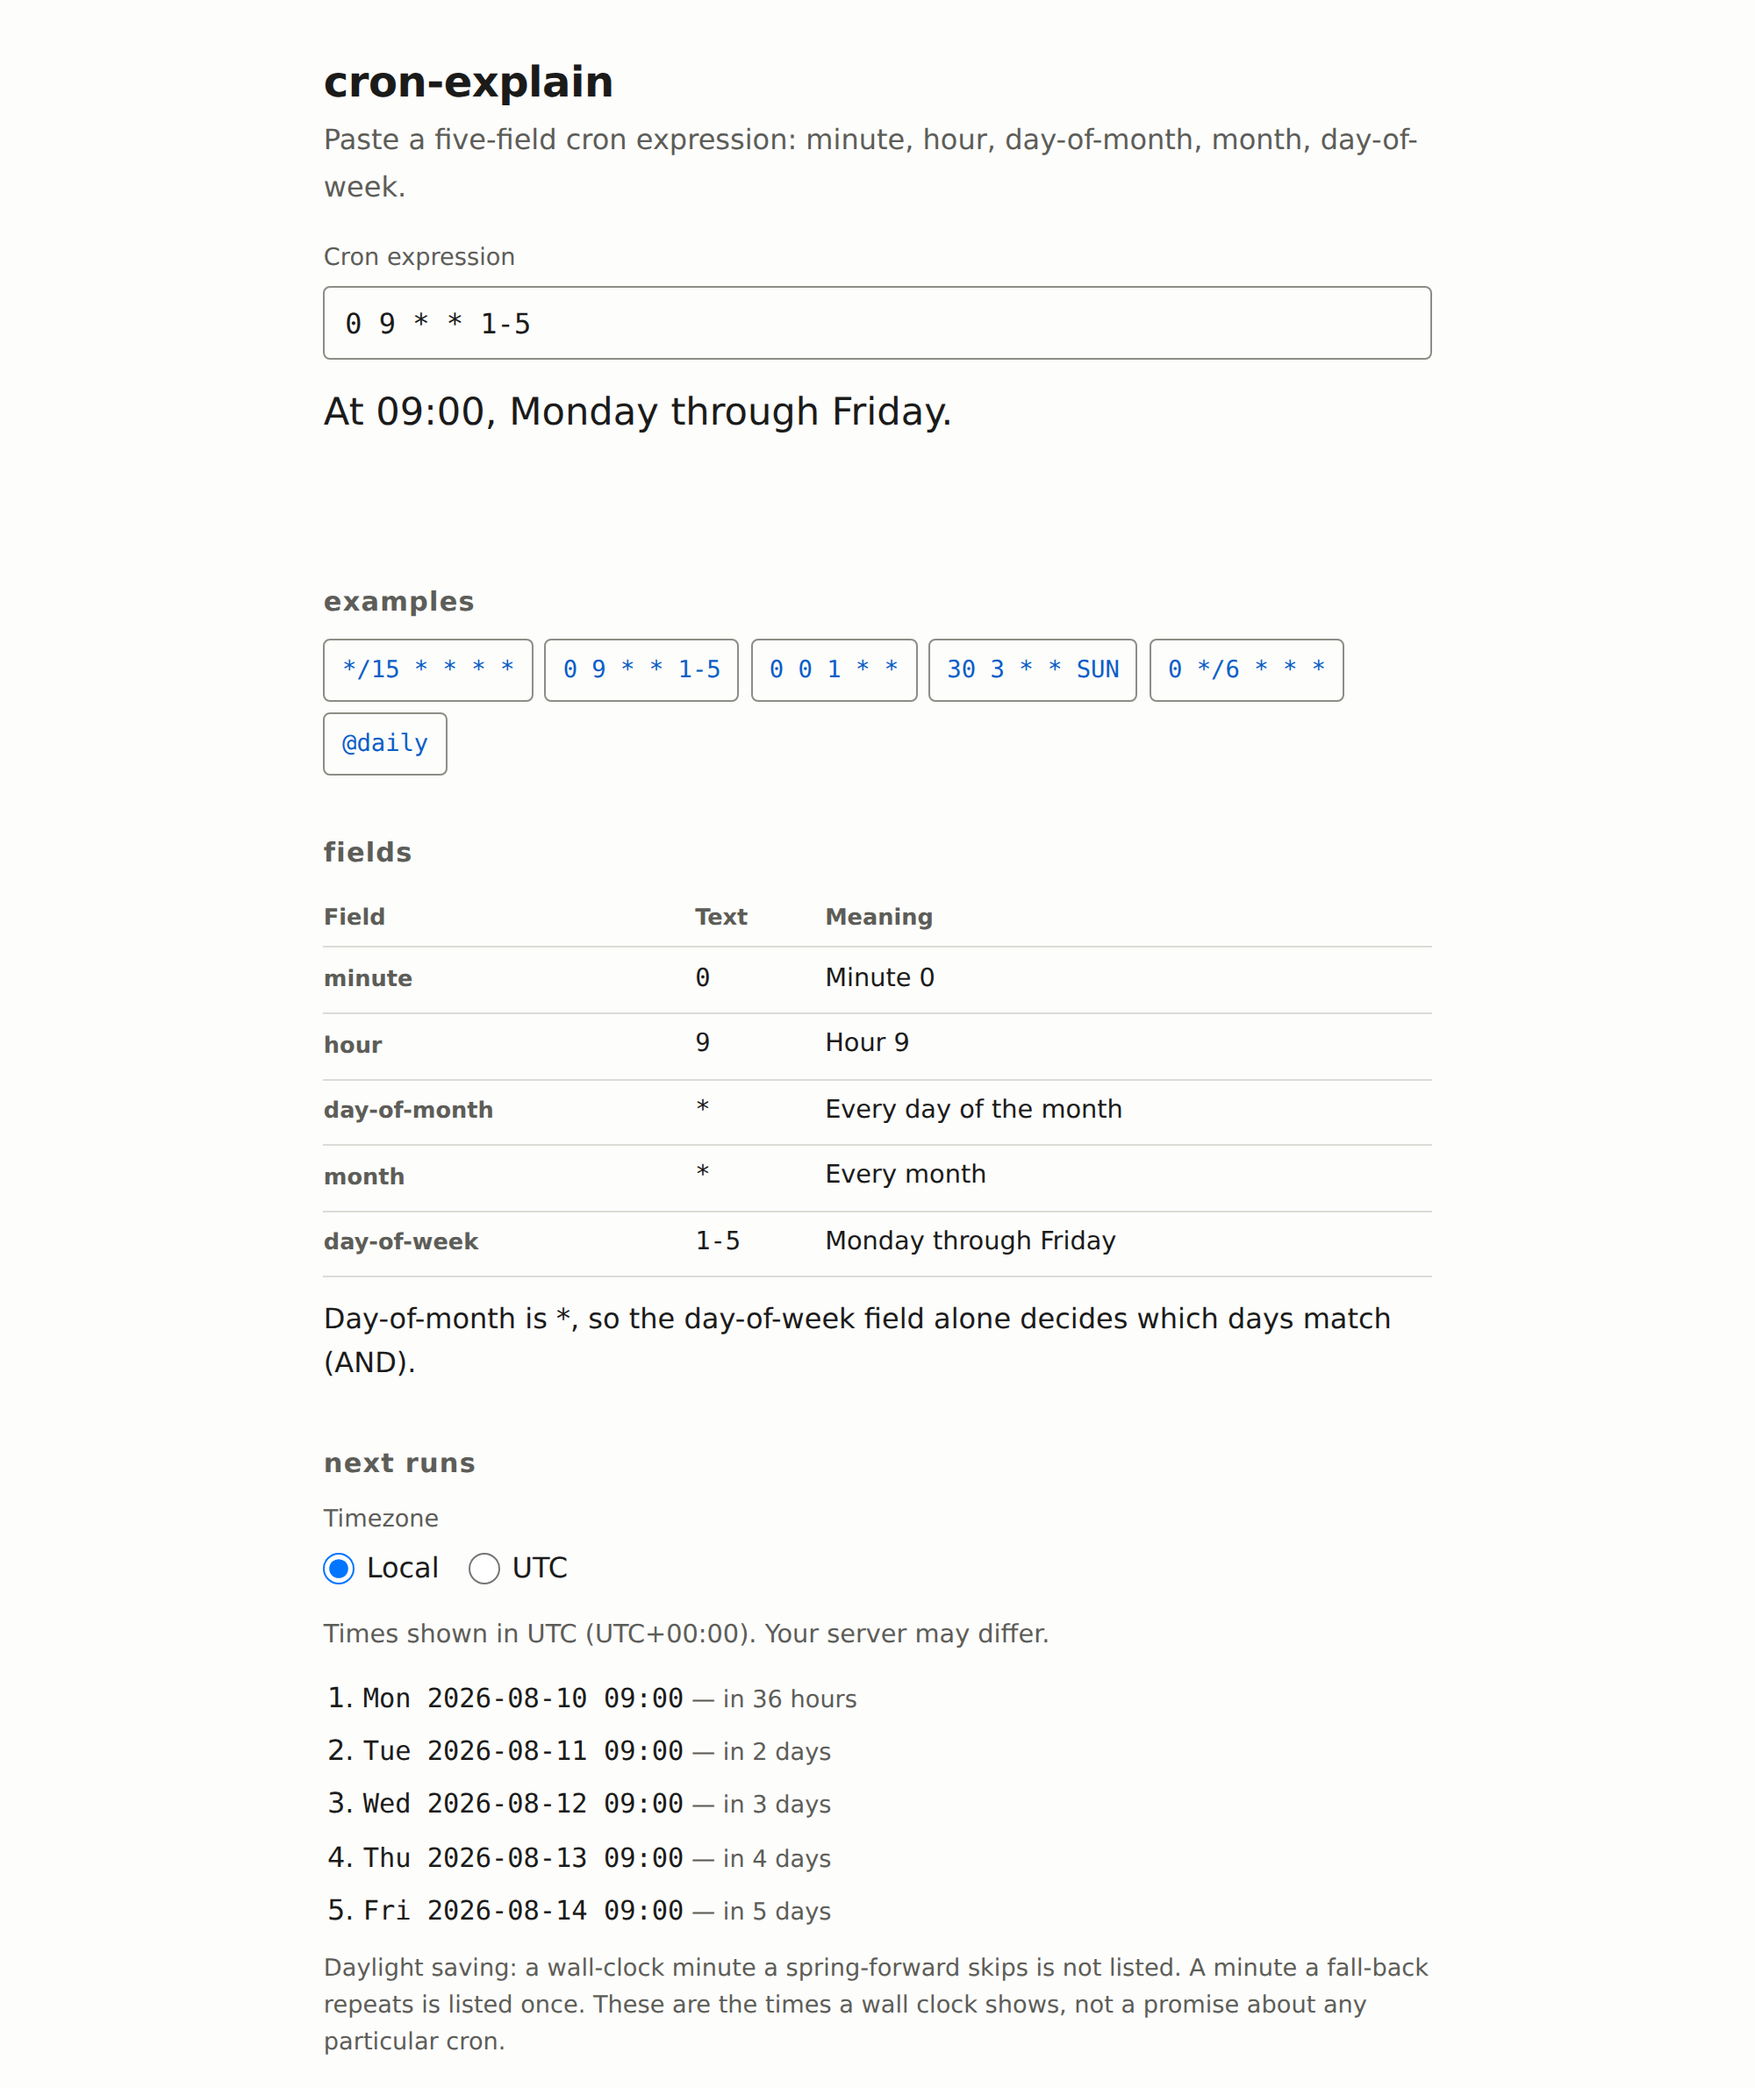
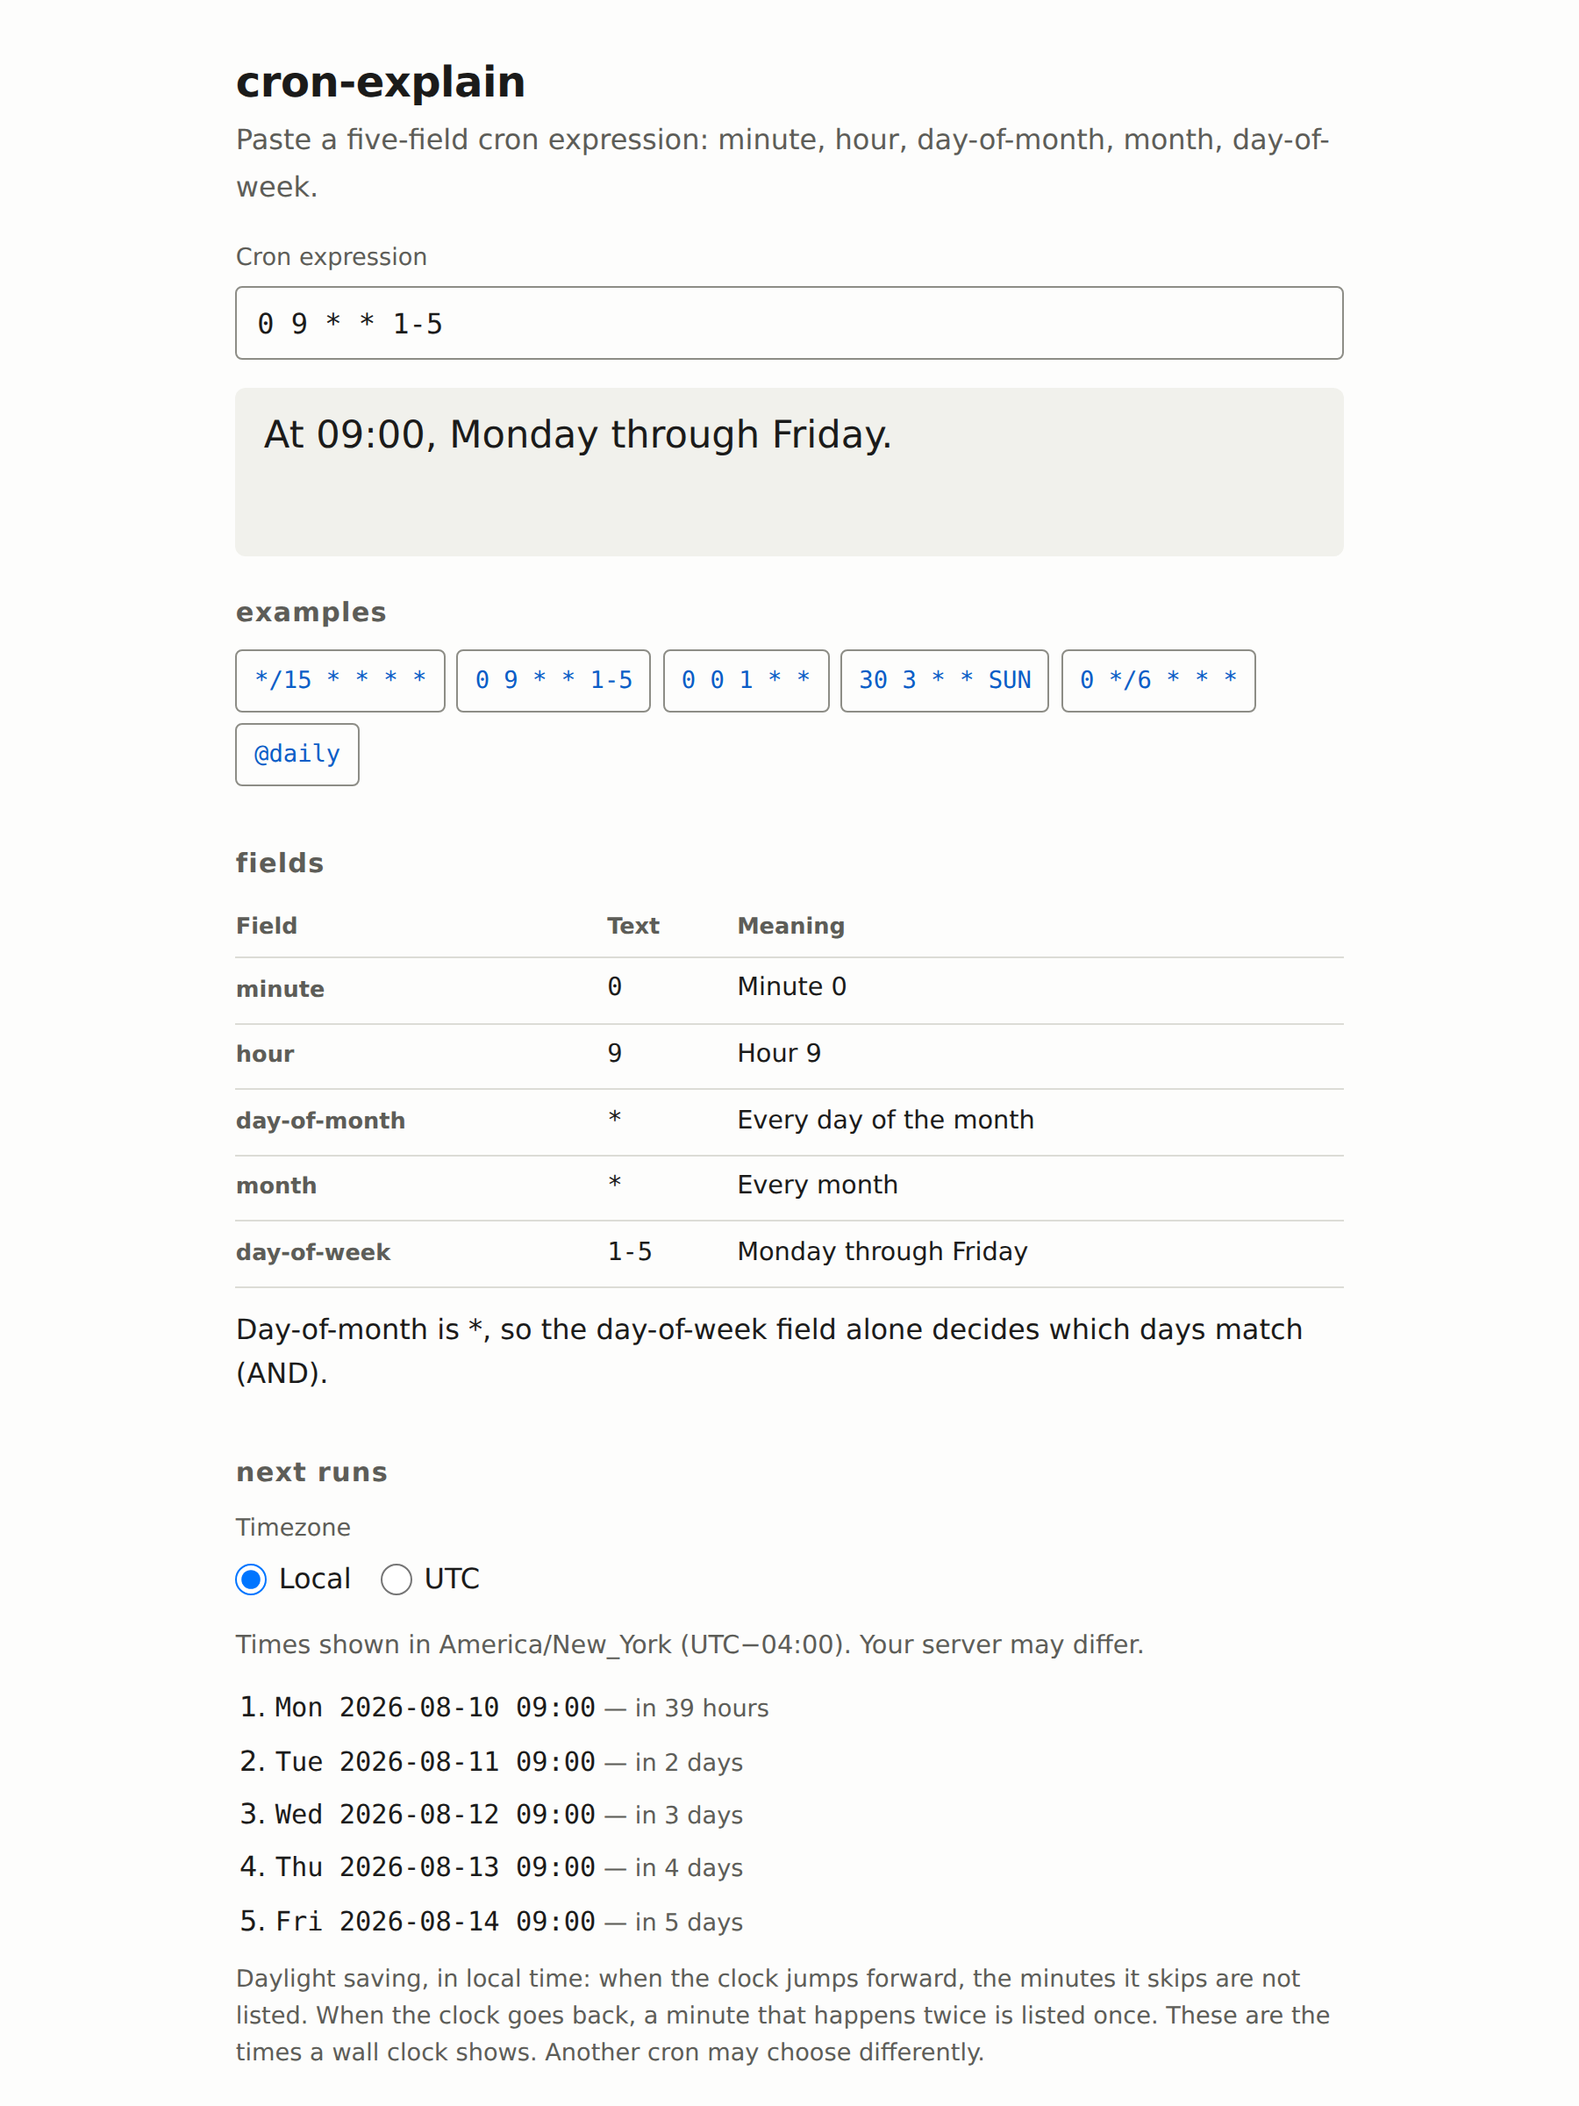
docs: loosen the What it does block, re-capture the screenshot
"What it does" was one 127-word paragraph of 27-word sentences carrying three
em-dash asides, two semicolons and nine inline-code runs. Same claims, split
into two paragraphs with no asides and no semicolons.

screenshot.png is re-captured from the shipped build at a 900x1200 viewport,
light scheme, showing the state its alt text describes: the default
expression, the sentence in its block, the six examples, the five-row table
with the day-rule note, and the five run times under the Local/UTC control.

Also corrects a tests.html comment that pointed at a README section that does
not exist.

diff --git a/tests.html b/tests.html
@@ -728,8 +728,10 @@
     CE.describe(parseSafe('0,30 9-17 15 2 FRI')),
     'In February, at minutes 0 and 30 of hours 9 through 17, on day 15 of the month or on Friday.');
 
-  // Assertions that exist to kill named mutants (see README): ordinal's "st"
-  // branch, compactList's run threshold, and relativeHint's 48-hour boundary.
+  // Three assertions that exist because a mutation run found nothing pinning
+  // the behaviour: ordinal's "st" branch, compactList's run threshold (two
+  // consecutive values are a pair, three are a run), and relativeHint's
+  // 48-hour boundary. Each fails if its line is changed.
   eq('an ordinal ending in 1 is "21st", not "21th"',
     CE.describe(parseSafe('0 0 */21 * *')), 'At 00:00, on every 21st day of the month.');
   eq('ordinals 2nd, 3rd and 11th', [CE.fieldRows(parseSafe('*/2 * * * *'))[0].meaning,

diff --git a/README.md b/README.md
@@ -8,7 +8,9 @@ Paste a cron expression and see what it means in plain English, plus the next fi
 
 ## What it does
 
-Paste a five-field cron expression — minute, hour, day-of-month, month, day-of-week — and get a plain-English sentence, a table per field, and the next five run times. It reads ranges (`1-5`), lists (`1,15,30`), steps (`*/15`, `9/2`), `JAN`/`MON` names, `0` and `7` as Sunday, and the `@daily` aliases; `@reboot` is explained but lists no runs. Quartz tokens (`?`, `L`, `W`, `#`), seconds fields and year fields are rejected by name, not by a broken page. It follows Vixie cron's real day rule: when neither day field starts with `*`, a day matches on day-of-month **or** day-of-week, and the page says so. Times use your browser's zone or UTC, with the resolved zone and offset printed; a spring-forward gap is skipped and a repeated fall-back minute is listed once.
+Paste a five-field cron line and get a plain-English sentence, a table of what each field means, and the next five run times. It reads ranges, lists, steps, month and day names, `0` and `7` as Sunday, and the `@daily` aliases, and it explains `@reboot` without inventing run times for it.
+
+Quartz tokens, seconds fields and year fields are rejected by name, so a bad line gets a message instead of a broken page. It follows Vixie cron's real day rule: when neither day field starts with `*`, a day matches on day-of-month **or** day-of-week, and the page says so. Times are shown in your browser's zone or in UTC, the zone and offset are printed, minutes lost to a clock jumping forward are left out, and a minute that happens twice is listed once.
 
 ## How to run
 
